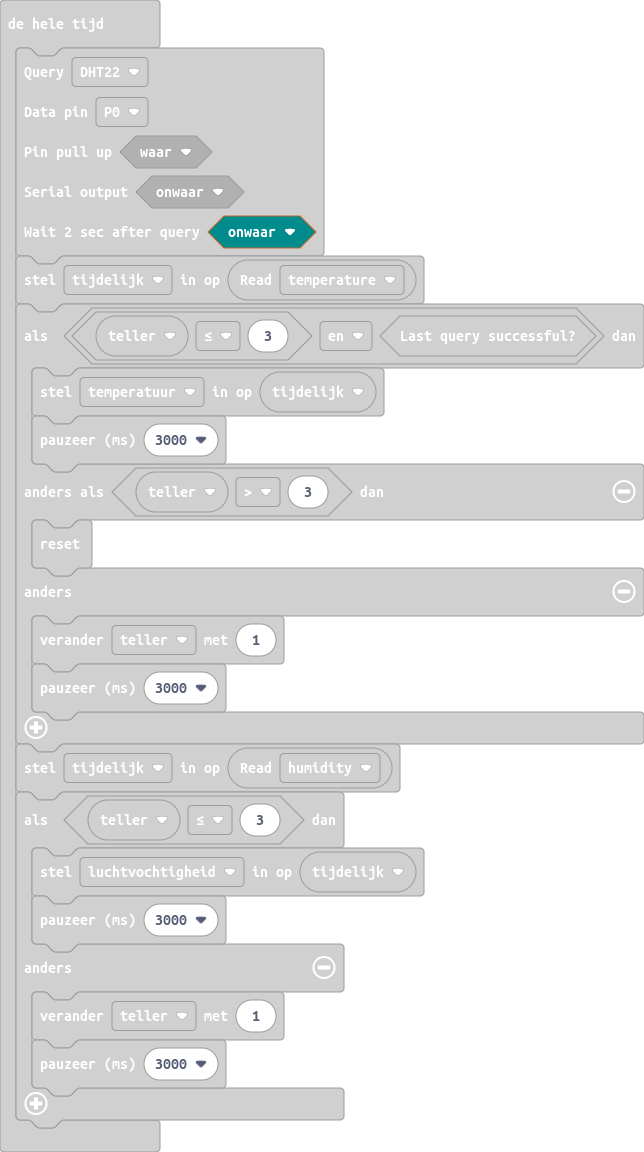
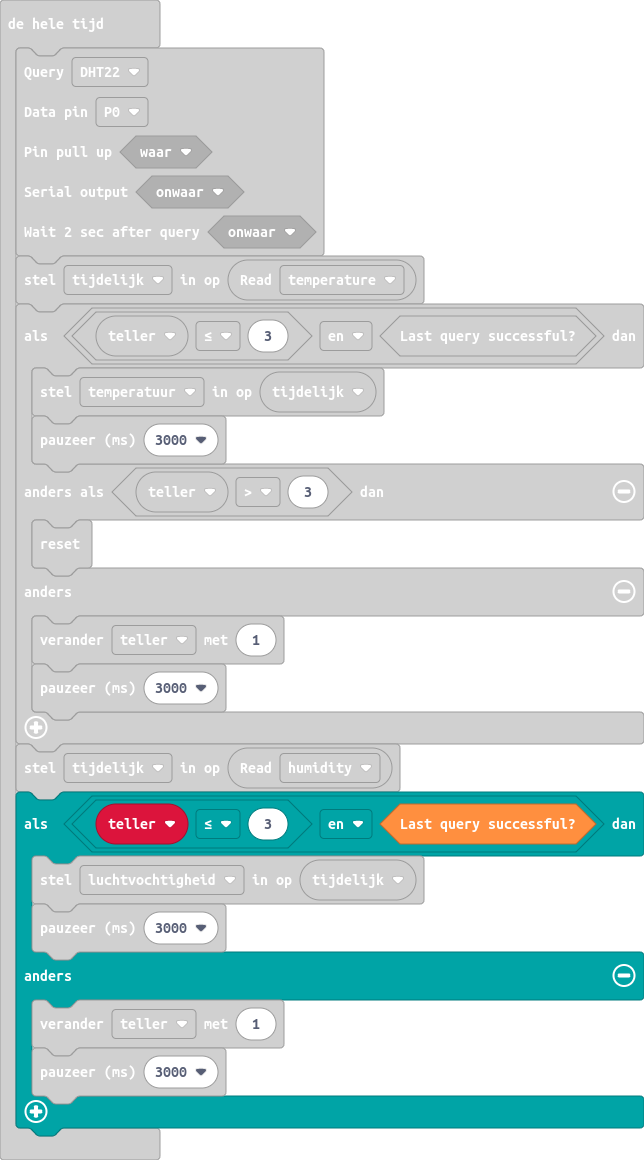
conditie voor lv veranderd

diff --git a/main.ts b/main.ts
@@ -29,7 +29,7 @@ basic.forever(function () {
         basic.pause(3000)
     }
     tijdelijk = dht11_dht22.readData(dataType.humidity)
-    if (teller <= 3) {
+    if (teller <= 3 && dht11_dht22.readDataSuccessful()) {
         luchtvochtigheid = tijdelijk
         basic.pause(3000)
     } else {
